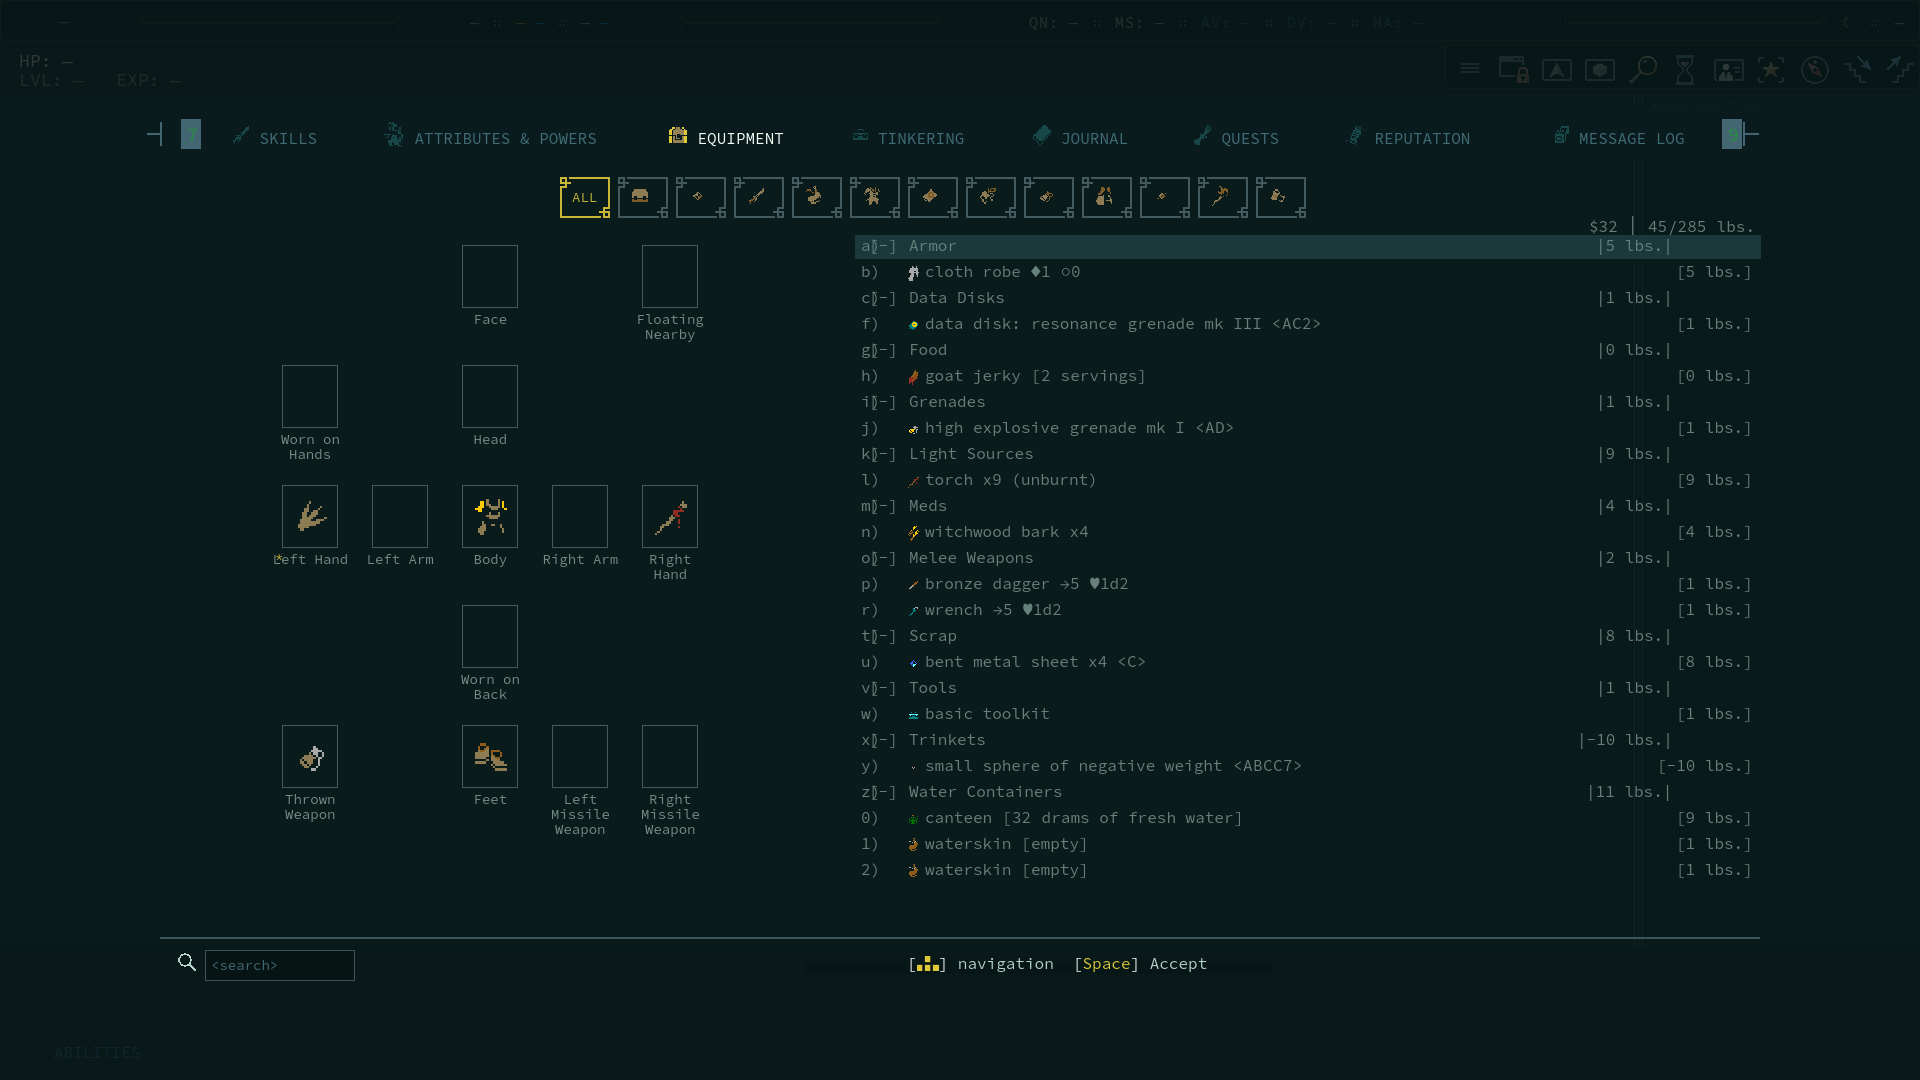
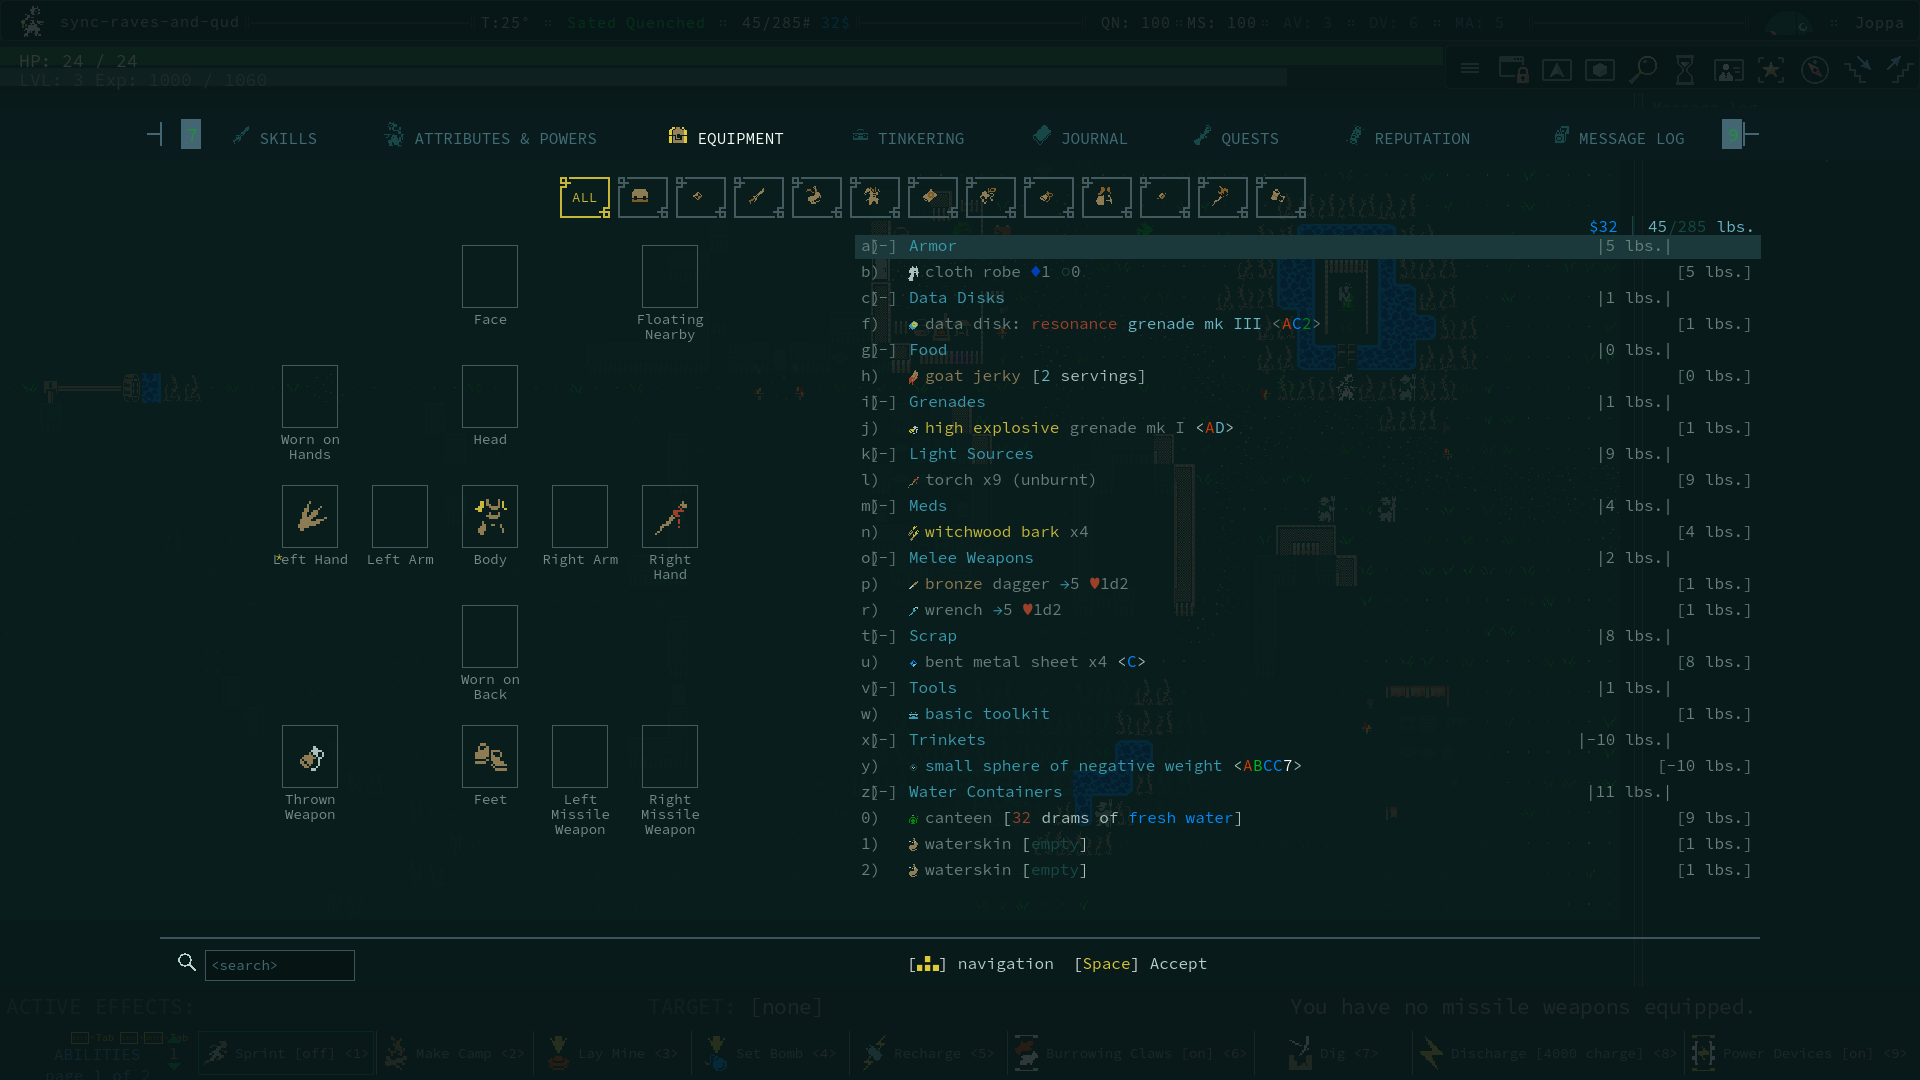
Paper doll uses Qud's "Equipment" render context (tints now exact)
EquipmentLine renders each slot with go.RenderForUI("Equipment") — a
different render context from the "Inventory" one the list uses (and
GreyOutForUI() for covered slots). The exporter now takes the context
per call site and the doll pulls from "Equipment".

That one change fixed the accent colours outright, because the context
returns the codes Qud actually paints: armor W (gold 200,184,57),
torch r (red 156,65,41), boots w (pale). Measured after: main
(140,123,83) against Qud's (141,124,84), and the accents match
EXACTLY — the open item from the last round is closed, and it was a
data-source bug, not a colour-math one.

Doll band 5.72 -> 5.01, full frame 5.22 -> 4.55 (best measured on this
tab).

Still open, size only: our ink is 32x36 against Qud's 47x48. Next lead
recorded — check EquipmentLine's UIThreeColorProperties image for a
fixed preferred size or sprite scale rather than guessing draw rects,
since two size guesses already regressed.

diff --git a/mod/InventoryExporter.cs b/mod/InventoryExporter.cs
@@ -36,12 +36,12 @@ namespace RavesOfQud
             catch (Exception e) { System.Console.WriteLine("[raves] inventory export failed: " + e.Message); }
         }
 
-        private static void WriteTile(JsonWriter j, GameObject go)
+        private static void WriteTile(JsonWriter j, GameObject go, string context = "Inventory")
         {
             try
             {
                 // RenderForUI returns a RenderEvent (fields, not the Renderable accessors)
-                var r = go.RenderForUI("Inventory");
+                var r = go.RenderForUI(context);
                 if (r == null) return;
                 string tile = r._Tile;
                 if (string.IsNullOrEmpty(tile)) return;
@@ -120,7 +120,10 @@ namespace RavesOfQud
                         if (eq != null)
                         {
                             try { j.Member("item", eq.DisplayName ?? ""); } catch { }
-                            WriteTile(j, eq);
+                            // the PAPER DOLL uses Qud's "Equipment" render context
+                            // (EquipmentLine: RenderForUI("Equipment")) — a different tile
+                            // and colours than the "Inventory" context the list uses
+                            WriteTile(j, eq, "Equipment");
                         }
                         j.EndObject();
                     }

diff --git a/mod/Protocol.cs b/mod/Protocol.cs
@@ -18,7 +18,7 @@ namespace RavesOfQud
         /// no way to tell from the outside whether the running code included a
         /// given fix. Every snapshot now says. Bump this when changing the mod.
         /// </summary>
-        public const string Build = "2026-08-04 filtericons-ae";
+        public const string Build = "2026-08-04 equipctx-af";
 
         /// <summary>
         /// Monotonic WIRE version — bump whenever a change to the snapshot format makes a newer client

diff --git a/docs/status-screens-plan.md b/docs/status-screens-plan.md
@@ -271,3 +271,20 @@ BLUR REGRESSES TO THE MEAN, so a soft tile scores better against a mismatched re
 one does. Treat per-band means as a coarse guide only; for tile work compare crops and ink boxes.
 Qud's doll ink is 47x48 (nearly square) vs our 32x36, so Qud is NOT drawing a 2:3 tile scaled — it
 renders these from a larger, wider source. That remains the open item.
+
+
+## Equipment paper doll — the sprite path (2026-08-05) — SOLVED for tiles+tint
+
+`EquipmentLine` renders each slot with `go.RenderForUI("Equipment")` (and `GreyOutForUI()` for
+covered/unusable slots) — a DIFFERENT render context from the `"Inventory"` one the list uses. The
+exporter now passes the context per use, and the doll's tiles/colours come from "Equipment".
+
+That single change fixed the accents outright: the context returns the codes Qud actually paints —
+armor `W` (gold 200,184,57), torch `r` (red 156,65,41), boots `w` (pale) — where "Inventory" had
+returned the item's own palette. Measured after: main (140,123,83) vs Qud (141,124,84) and the
+accents match EXACTLY. Doll band 5.72 -> **5.01**, full frame 5.22 -> **4.55**.
+
+STILL OPEN (size only): our ink is 32x36 vs Qud's 47x48 — Qud draws these bigger than a 2:3 tile in
+the 55x62 slot. Next: check whether EquipmentLine's UIThreeColorProperties image uses a fixed
+preferred size / different sprite scale, rather than guessing draw rects (two guesses regressed).
+Remember blur regresses to the mean: compare ink boxes, not band averages, for this.
